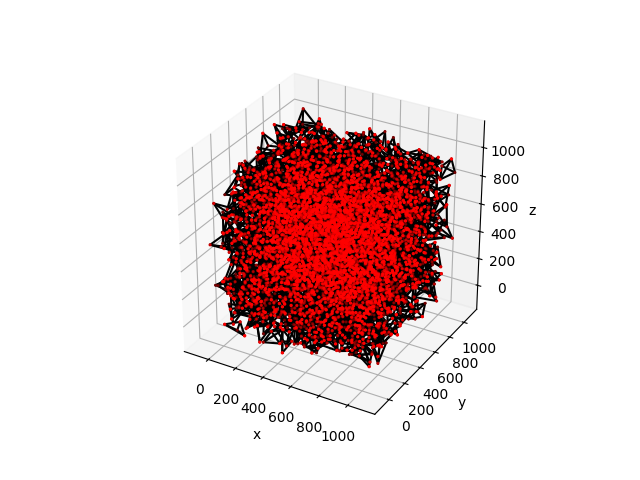
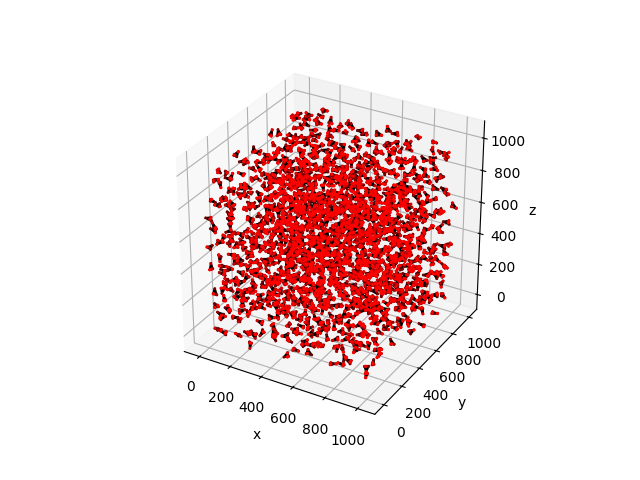
In progress

Changed region(s): [[0.2812, 0.1875, 0.8438, 0.9062], [0.3125, 0.8125, 0.5625, 0.9375], [0.2812, 0.7812, 0.3125, 0.8125]]

diff --git a/Tetrahedron_generator.py b/Tetrahedron_generator.py
@@ -46,21 +46,19 @@ def create_single_tetrahedron(position, parity, r, deviation):
     return np.vstack((primary, secondary1, secondary2, secondary3))
 
 
-def generate_random_deviations(r_min, r_max):
-    # r_min: 3D array
-    # r_max: 3D array
-    return np.array([random.uniform(-np.pi, np.pi) for i in range(3)] +
-                    [random.uniform(r_min[i], r_max[i]) for i in range(3)])
+def generate_random_deviations(deviation_range):
+    deviation = np.array([random.uniform(-np.pi, np.pi) for i in range(3)] +
+                         [random.uniform(deviation_range[i][0], deviation_range[i][1]) for i in range(3)])
+    return deviation
 
 
 def create_multiple_tetrahedra(vertices, parity, r, deviation_range):
     num_vert = vertices.shape[0]
-    deviation_min, deviation_max = deviation_range[:3], deviation_range[3:]
 
     multiple_tetrahedra = []
 
     for i in range(num_vert):
-        deviation = generate_random_deviations(deviation_min, deviation_max)
+        deviation = generate_random_deviations(deviation_range)
         single_tetrahedron = create_single_tetrahedron(vertices[i], parity, r, deviation)
         multiple_tetrahedra.append(single_tetrahedron)
 
@@ -97,8 +95,8 @@ def plot_tetrahedra(tetrahedra):
 space = np.array([[0, 1000], [0, 1000], [0, 1000]])
 vertices = generate_3d_random(1500, space, 60)
 parity = 1
-r = [100, 100, 100]
-deviation_range = generate_random_deviations([1, 1, 1], [2, 2, 2])
+r = [10, 20, 30]
+deviation_range = np.array([[0, 1], [-2, 2], [-1, 0]])
 tetrahedra = create_multiple_tetrahedra(vertices, parity, r, deviation_range)
 
-# plot_tetrahedra(tetrahedra)
+plot_tetrahedra(tetrahedra)
